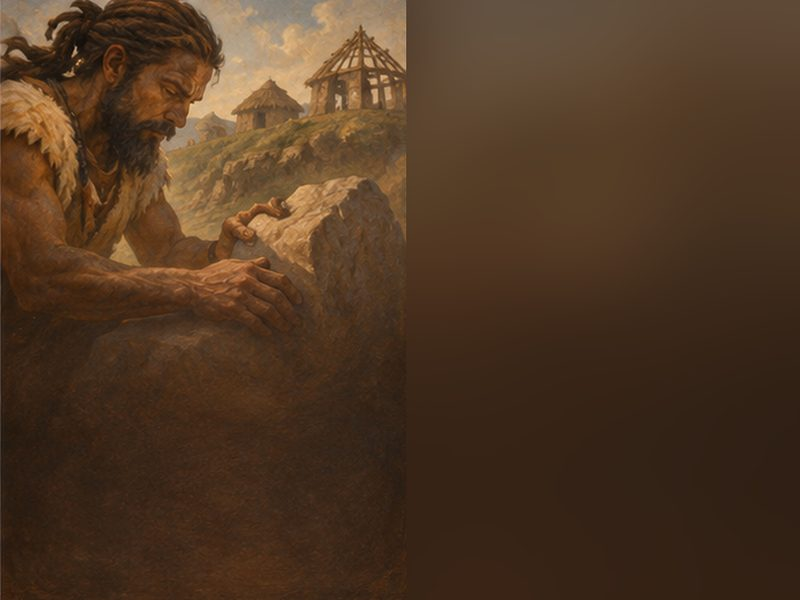
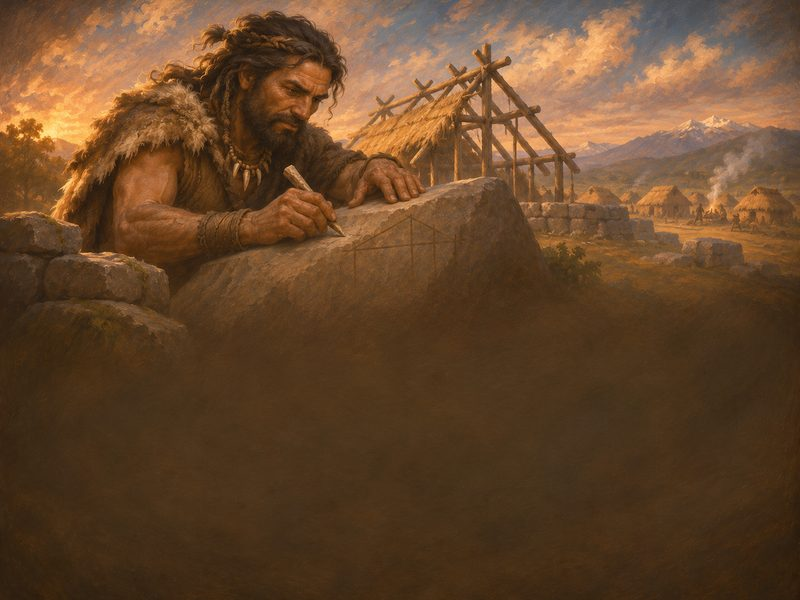
v1.66.3: Dawn new First Architect picture
Claude-Session: https://claude.ai/code/session_01JVATdQRTjHvh6ACghck5CM

diff --git a/CHANGELOG.md b/CHANGELOG.md
@@ -2,6 +2,10 @@
 
 Newest first. Versions from 1.x on are the combined app (Root and Rune + Weather generator).
 
+## v1.66.3 (combined app)
+
+- Dawn: new picture for The First Architect.
+
 ## v1.66.2 (combined app)
 
 - Dawn: new picture for The First Conqueror.
